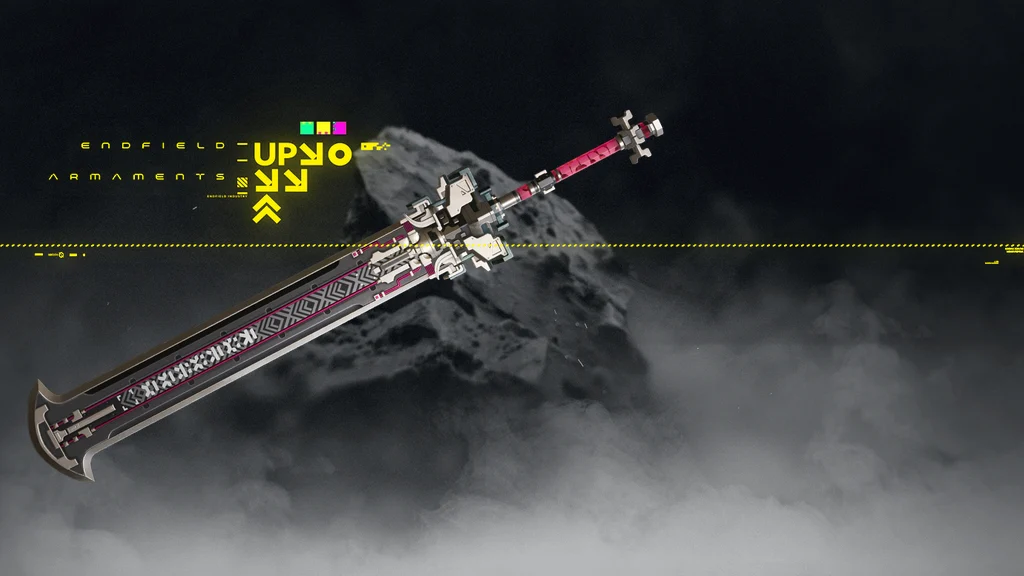
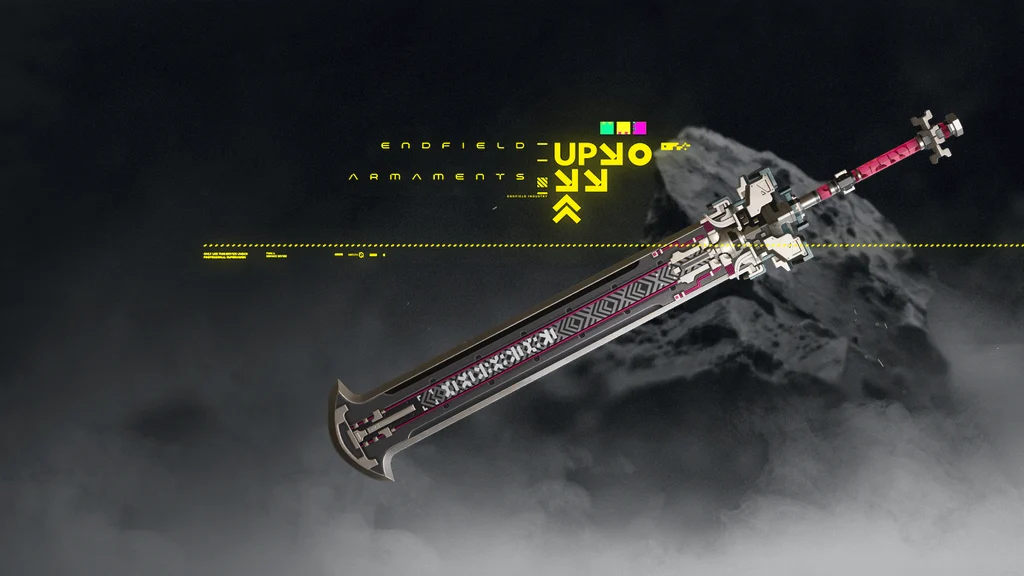
Move Issue art right and point guns muzzle down-left
The site lays a banner's names over the left of its art, so the weapon,
UP ornaments and rock now sit 300 px further right, leaving the left
side clear for the text. Guns go back to the official banners' turn:
muzzle down-left, grip down.

diff --git a/scripts/issue-banner.py b/scripts/issue-banner.py
@@ -24,23 +24,25 @@ from PIL import Image
 
 ART = os.path.join(os.path.dirname(os.path.abspath(__file__)), 'issue-art')
 W, H = 1024, 576
+# The official banners put the weapon on the left and their title on the
+# right. The site lays the names over the left of the art instead, so the
+# whole scene (ornaments, weapon, rock) slides right by this much.
+SHIFT = 300
 
 # The ornament layer is the guide's 1693x1006 weapon layout, drawn 1.2x on the
 # banner with its UP glyph at (255, 140) like the official banners.
-ORNAMENTS_AT, ORNAMENTS_SIZE = (-130, 28), (1256, 748)
+ORNAMENTS_AT, ORNAMENTS_SIZE = (-130 + SHIFT, 28), (1256, 748)
 # Its big ARMAMENTS lettering, shadow, and the small glyphs framing it, erased.
 ARMAMENTS = (830, 425, 1610, 720)
 
 # Where the weapon goes on the banner (x0, y0, x1, y1).
-LONG_BOX = (25, 65, 665, 525)      # swords, greatswords, lances
-PISTOL_BOX = (120, 190, 580, 480)
-COMPACT_SIZE, COMPACT_CENTRE = 310, (405, 300)  # arts units
+LONG_BOX = (25 + SHIFT, 65, 665 + SHIFT, 525)      # swords, greatswords, lances
+PISTOL_BOX = (120 + SHIFT, 190, 580 + SHIFT, 480)
+COMPACT_SIZE, COMPACT_CENTRE = 310, (405 + SHIFT, 300)  # arts units
 
 # Turning a wiki render the official way, degrees counter-clockwise: blades
-# hilt top-right, tip down-left; lances butt top-left, head down-right; arts
-# units mirrored. The official banners show guns from their other side,
-# muzzle down-left; the renders have only one side, so guns get the same tilt
-# but point down-right.
+# hilt top-right, tip down-left; lances butt top-left, head down-right; guns
+# tilted muzzle down-left, grip still down; arts units mirrored.
 TURN = {'sword': 135, 'claym': 118, 'lance': -123, 'pistol': 36, 'funnel': 0}
 # Weapons whose official banner shows them mirrored.
 MIRRORED = {'wpn_sword_0022'}  # Lupine Scarlet
@@ -48,10 +50,10 @@ MIRRORED = {'wpn_sword_0022'}  # Lupine Scarlet
 
 def backdrop():
     bg = Image.open(os.path.join(ART, 'background.png')).convert('RGBA')
-    s = 0.74  # puts the rock's peak (1040, 250 in the file) at (360, 140)
+    s = 0.74  # puts the rock's peak (1040, 250 in the file) at (360, 140), then shifted
     bg = bg.resize((round(bg.width * s), round(bg.height * s)), Image.LANCZOS)
     out = Image.new('RGBA', (W, H), (12, 13, 14, 255))
-    out.alpha_composite(bg, (360 - round(1040 * s), 140 - round(250 * s)))
+    out.alpha_composite(bg, (360 + SHIFT - round(1040 * s), 140 - round(250 * s)))
     # The official backdrop is a little darker and cooler.
     out.alpha_composite(Image.new('RGBA', (W, H), (8, 14, 22, 60)))
     return out
@@ -67,7 +69,7 @@ def ornaments():
     layer = Image.fromarray(px.astype(np.uint8), 'RGBA').resize(ORNAMENTS_SIZE, Image.LANCZOS)
     out = Image.new('RGBA', (W, H), (0, 0, 0, 0))
     x, y = ORNAMENTS_AT
-    out.alpha_composite(layer, (0, y), (-x, 0))
+    out.alpha_composite(layer, (max(0, x), y), (max(0, -x), 0))
     return out
 
 
@@ -81,8 +83,6 @@ def orient(weapon, weapon_id):
         weapon = weapon.transpose(Image.FLIP_LEFT_RIGHT)
     if TURN[kind]:
         weapon = trim(weapon.rotate(TURN[kind], expand=True, resample=Image.BICUBIC))
-    if kind == 'pistol':
-        weapon = weapon.transpose(Image.FLIP_LEFT_RIGHT)
     return weapon
 
 
